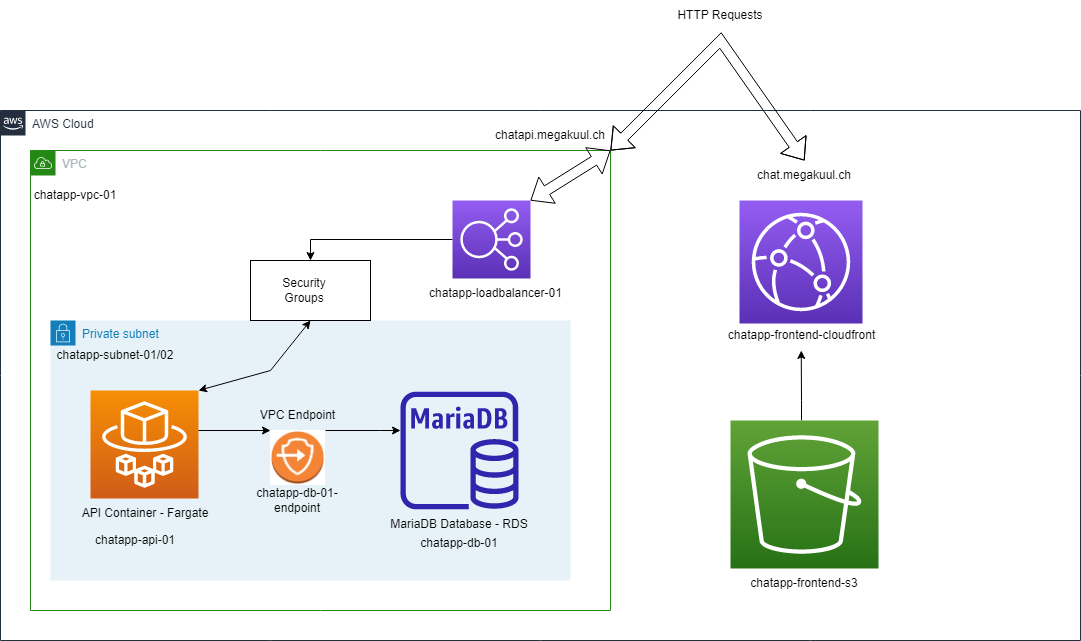
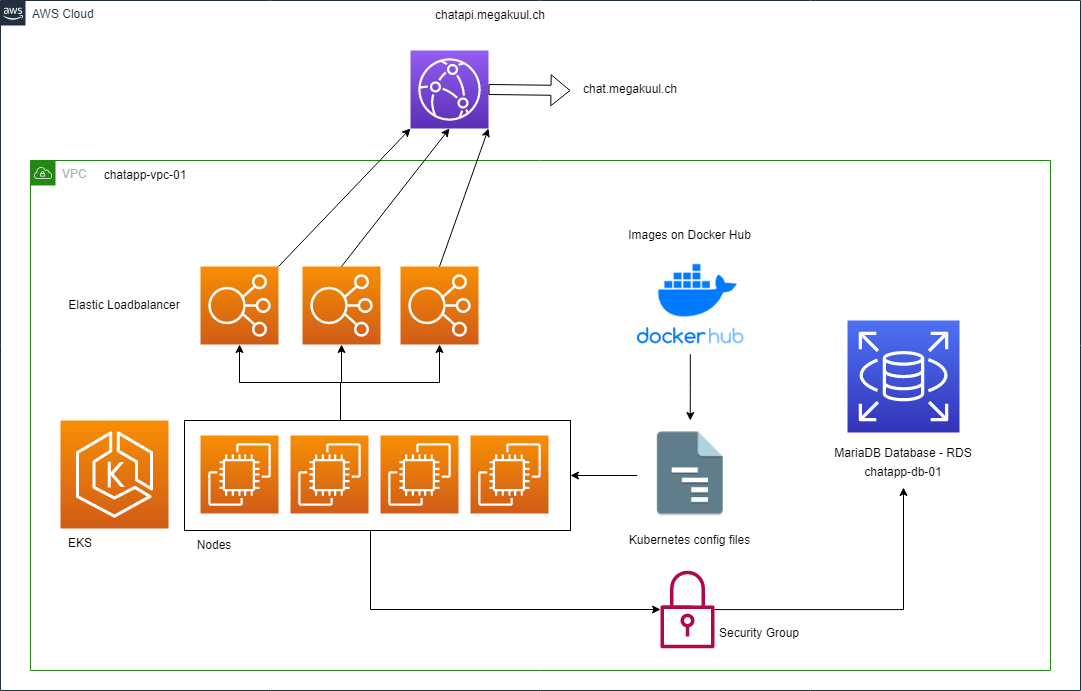
changed README

diff --git a/README.md b/README.md
@@ -1,1 +1,57 @@
-**IMPORTANT** if the Terraform script doesnt work, you have to add a default Route to 0.0.0.0/0 in the route table and redeploy the container
+Basic Chatapp, create and use simple chatrooms via 5 pin Code.
+
+It is desired to run on the AWS Cloud infrastructur on a high avaiable EKS Cluster.
+
+### Used technologies:
+
+- Flutter 					→ Frontend
+- Expressjs 			→ Middleend
+- MySQL (RDS) 	→ Database/Backend
+- Docker 				→ Containerization
+- AWS 						→ Cloud infrastructur
+- Terraform 			→ Infrastructur as Code
+
+**Diagram**:
+
+![](https://slabstatic.com/prod/uploads/8q5jdj6q/posts/images/MbbvMdIWtnYUGp-GazGy4A1p.png)
+
+### Deployment:
+
+These instructions only work with the AWS infrastructur. You also need the AWS Cli Tool, aswell as the Terraform and Kubctl Tool.
+
+Clone Git Repository:
+
+```
+git clone https://github.com/Megakuul/Chatapp.git
+
+```
+
+Init Terraform provider:
+
+```
+terraform init
+
+```
+
+Plan Terraform Script:
+
+```
+terraform plan
+
+```
+
+Execute Terraform Script:
+
+```
+terraform apply -var "eks-role-arn=[youreksrolearn]"
+
+```
+
+After the cluster is initialized, you can deploy the Containers to it:
+
+```
+kubectl apply -f .\chatapp.yaml
+
+```
+
+Additional you can now create a CloudFront instance and add your custom Domain to the Loadbalancers DNS name.
